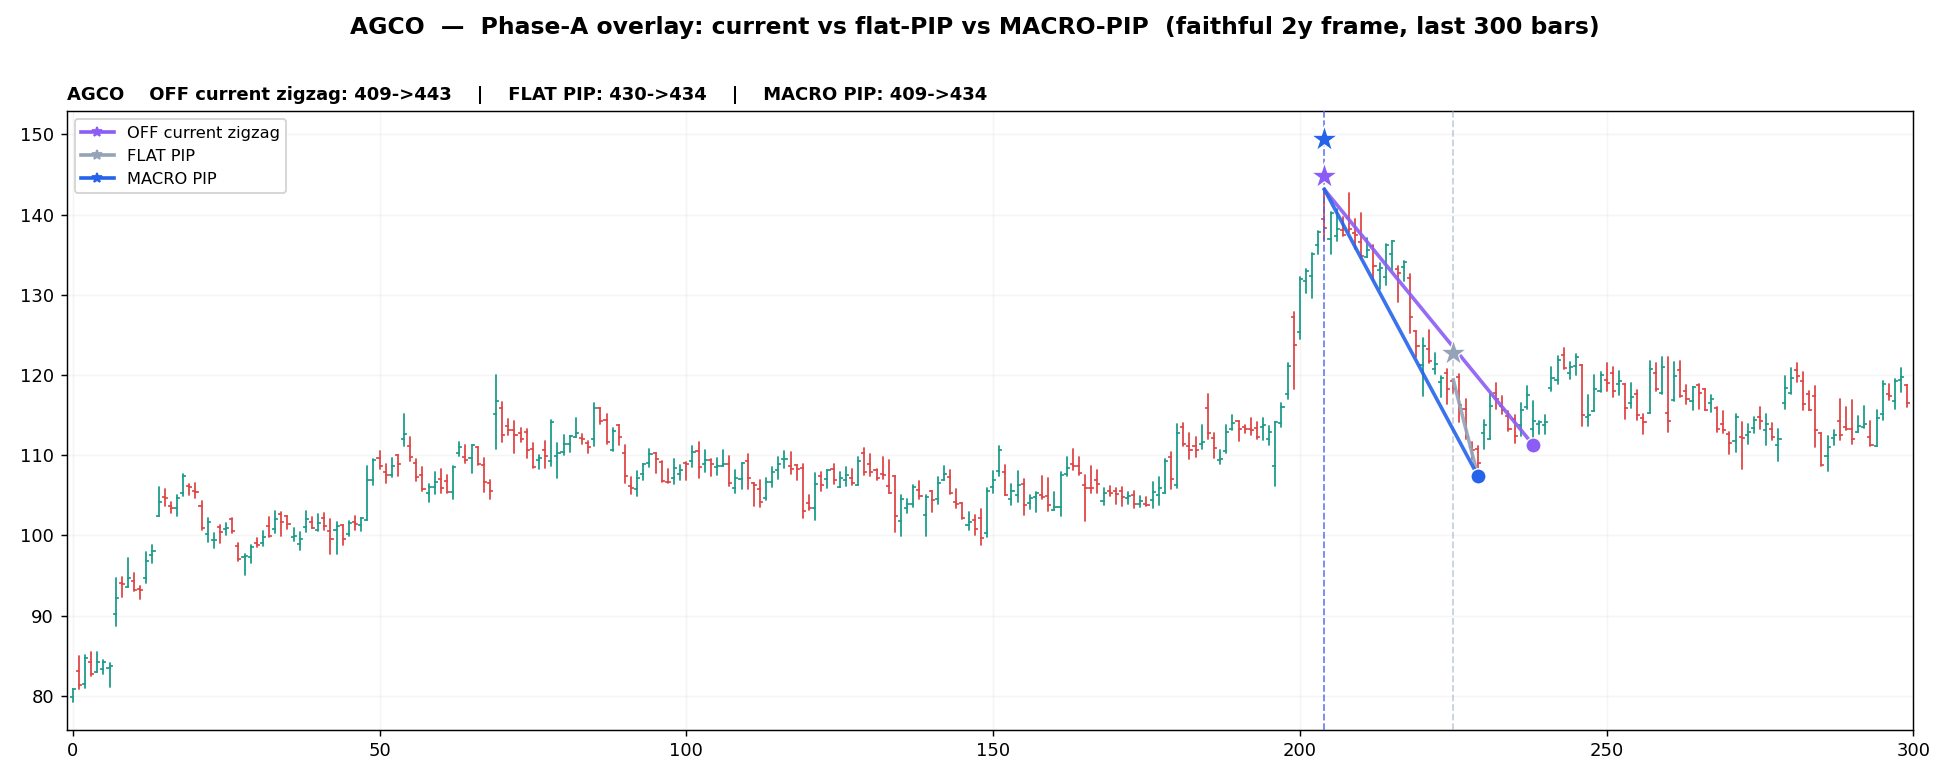
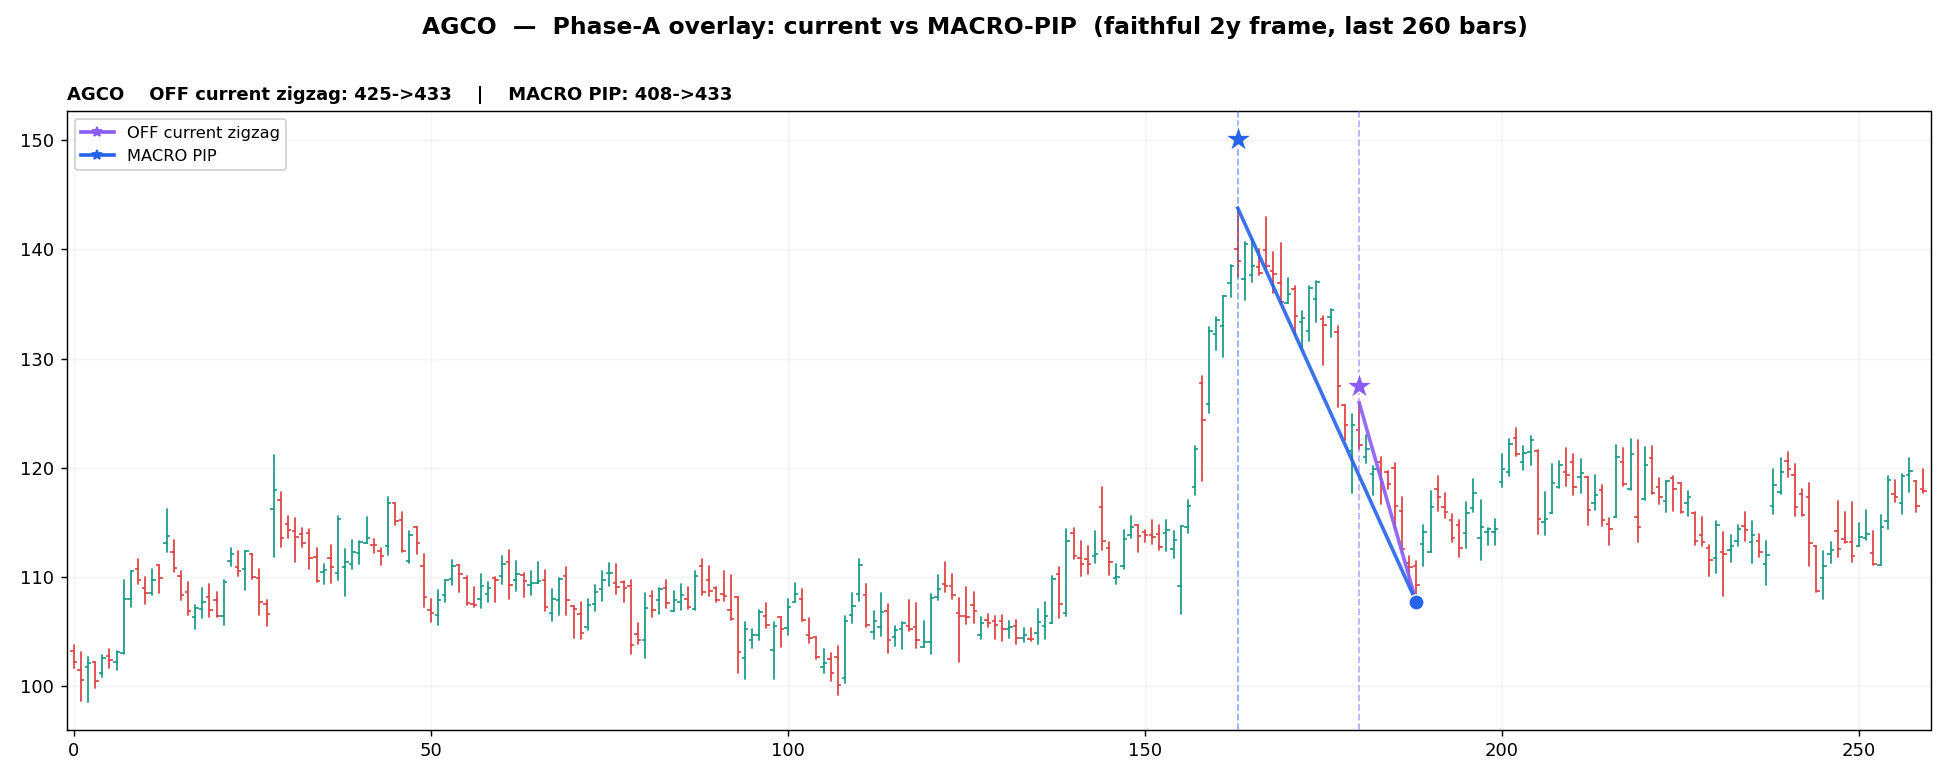
feat(structure): flip PIP_MACRO_PHASE_A_ENABLED live (macro Phase-A read)
Operator-approved flip after the pre-flip adversarial review + overlay eyeball.
The coarse->fine macro Phase-A read now speaks by default, re-anchoring degenerate
right-edge climax->AR stubs to the genuine trend-top -> reaction.

Evidence (tools/phase_a_pip_diff.py, faithful 2y frame, 5491 tickers -> 140 fire):
19/140 overlays re-anchor; 0 stolen climaxes in EITHER mode; 0 score/fire/tier
change (Phase-A OVERLAY only -- R/S / LPS / scoring / tiering untouched). Eyeballed
top movers: OCFC/FTW/PH clear wins (stub -> genuine top), PCG the one debatable
(macro anchors a later lower high).

Safe by construction: both flag states are byte-identical on the canonical shadow
set (the macro read only moves climax_bar / ar_bar). The phase-ordering invariant
holds on BOTH reads after 142bf50 (macro abstains when its AR overruns the box)
and 5882226 (order-N asymmetric bound). Ships-dark guard updated to ships-live;
flag_ledger row moved to Retired with the evidence trail.

Gates (flag ON): pytest 781 passed; shadow_diff --check no canonical drift;
seed_recall 54.5% held. Settings quick-ref regenerated.

diff --git a/config/settings.py b/config/settings.py
@@ -39,11 +39,13 @@ PIVOT_ORDER_THRESHOLD = 40       # Bar count threshold for switching ORDER
 # climax or AR. Deliberately NOT applied to read_market_structure — event
 # labels want the fine skeleton, the Phase-A bridge wants the coarse one.
 # Feeds ONLY the Phase-A overlay via resolve_phase_a, never R/S/score/tier.
-# Operator approved the flip 2026-07-04 on the overlay A/B (24/140 overlays move, 0
-# score/fire/tier), but the flip is HELD: making macro the default breaks the
-# phase-ordering invariant (LUV: macro AR lands AFTER the box start) — investigate
-# whether that's a real overlay defect or an over-strict invariant before flipping.
-PIP_MACRO_PHASE_A_ENABLED = False
+# FLIPPED LIVE 2026-07-04: operator eyeball on the overlay A/B (tools/phase_a_pip_diff.py:
+# 19/140 overlays re-anchor to the genuine trend-top -> reaction, 0 stolen climaxes in
+# EITHER mode, 0 score/fire/tier — Phase-A OVERLAY only). The phase-ordering hold (LUV:
+# macro AR landed AFTER the box start) was a REAL overlay defect, not an over-strict
+# invariant: the box-overrunning macro bridge now abstains (resolve_phase_a bridge_end_max
+# = phase_b_start_bar, 142bf50); the sibling always-on order-N hole was closed in 5882226.
+PIP_MACRO_PHASE_A_ENABLED = True
 PIP_MACRO_K_MAX = 24             # refinement cap: finest skeleton size tried
 # "True Phase-A root swing" rule (operator, 2026-07-02): a candidate trend-end
 # bridge qualifies ONLY if it leads to an actual equilibrium. The read stays

diff --git a/tests/test_pip.py b/tests/test_pip.py
@@ -184,7 +184,7 @@ def test_segment_swings_macro_wire_and_flag_default(monkeypatch):
     import pandas as pd
     from core.structure.segmentation import segment_swings
 
-    assert settings.PIP_MACRO_PHASE_A_ENABLED is False   # ships dark
+    assert settings.PIP_MACRO_PHASE_A_ENABLED is True    # ships LIVE (flipped 2026-07-04)
 
     highs, lows = _markup_range_frame()
     df = pd.DataFrame({"High": highs, "Low": lows})

diff --git a/docs/flag_ledger.md b/docs/flag_ledger.md
@@ -19,7 +19,6 @@ Maintenance rules:
 
 | Flag | Built | Blocking decision | Evidence | Kill-by |
 |---|---|---|---|---|
-| `PIP_MACRO_PHASE_A_ENABLED` | 2026-07-02 (`25b98cb`) | Operator APPROVED the flip 2026-07-04 on the overlay A/B (`tools/phase_a_pip_diff.py`: 24/140 overlays move, 0 score/fire/tier), but **HELD**: making macro the default breaks the phase-ordering invariant (LUV macro AR lands AFTER the box start) + the `test_segment_swings_finds_root_bridge` unit test — resolve whether that's a real overlay defect or an over-strict invariant, then flip | [pip_macro_phase_a.md](pip_macro_phase_a.md); `test_invariants::test_phase_ordering_monotone` | 2026-08-15 |
 | `LPS_REQUIRE_PEAK_DOWN` | 2026-06-24 (`dba8005`) | Was gated on a seed-recall measurement before any flip; the census found NO peak-down threshold that separates winners, and the OHI run-up class it targeted is now killed by the live markup gate (`LPS_RESCUE_MAX_ADVANCE_BOX = 0.21`). **Recommendation: delete unless a new census revives it** | `settings.LPS_REQUIRE_PEAK_DOWN` comment; markup-gate validation 2026-06-26 | 2026-08-01 |
 | `TA_SCORE_V2` | 2026-07-01 (`d4c90bd`) | Build P0–P6.5 reweight-neutral behind the flag, then STOP at the A/B eyeball (weights untouched); flip is an operator A/B decision | [../specs/ta-score-rework.md](../specs/ta-score-rework.md), [../specs/ta-score-hybrid-design.md](../specs/ta-score-hybrid-design.md) | 2026-08-31 |
 | `FUNDAMENTALS_ENABLED` (Lane C) | 2026-06-29 (`b8753a1`) | The scoring/enrichment wire-up wave (fundamentals feeding score/archive) — substrate is built and unit-tested, consumption wave not yet scheduled | `core/fundamentals/` docstrings | 2026-09-30 |
@@ -33,3 +32,4 @@ Maintenance rules:
 | `PIP_PIVOTS_ENABLED` (+ `PIP_PIVOTS_DIST_MIN`) | 2026-06-25 (`c08e61f`) | **DELETED 2026-07-03** — eyeball-rejected as a wash (fixes some inverted climax→AR overlays, creates others: GBTG/PLSE/CGNX, `d43e7fd`); dead branches removed from `segment_swings` / `read_market_structure`, keys removed from the freeze manifest. `pip.py` itself stays (`macro_bridge_zigzag` refines the same substrate) | [pip_macro_phase_a.md](pip_macro_phase_a.md) §history; byte-parity gates green at deletion |
 | `CANDLE_SPREAD_AWARE` | 2026-06-30 (`ed6b82e`) | **FLIPPED LIVE 2026-07-04** — operator A/B eyeball (`tools/candle_ab.py`): 61/128 choppy bases docked (mean −0.39, min −3.0), 0 tier flips, clean bases preserved at grade 1.0; shadow baseline re-captured | `settings.CANDLE_SPREAD_AWARE`; E1 Track B A/B |
 | `PUZZLE_SCORE_ENABLED` | 2026-06-30 (`d2db80c`) | **FLIPPED LIVE 2026-07-04** — operator A/B eyeball (`tools/puzzle_ab.py`): 128/128 fires lifted (mean +4.5, max +8.0), 22 tier flips; shadow baseline re-captured. Forward-return validation still due ~2026-07-15+ (a revisit, not a blocker) | `settings.PUZZLE_SCORE_ENABLED`; [engine_pass/](engine_pass/) E2/E3 |
+| `PIP_MACRO_PHASE_A_ENABLED` | 2026-07-02 (`25b98cb`) | **FLIPPED LIVE 2026-07-04** — operator eyeball on the overlay A/B (`tools/phase_a_pip_diff.py`): 19/140 overlays re-anchor to the genuine trend-top→reaction, 0 stolen climaxes in EITHER mode, 0 score/fire/tier (Phase-A overlay only). The phase-ordering hold was a REAL overlay defect (macro AR painted inside the box): the box-overrunning macro bridge now abstains (`142bf50`, `bridge_end_max=phase_b_start_bar`); the sibling always-on order-N hole was closed (`5882226`); `test_segment_swings_finds_root_bridge` pinned flag-off (`b514f49`) | [pip_macro_phase_a.md](pip_macro_phase_a.md); `test_invariants::test_phase_ordering_monotone` |

diff --git a/docs/strategy_v2.md b/docs/strategy_v2.md
@@ -730,7 +730,7 @@ detector decision, in manifest order, with its live `config/settings.py` value.
 Regenerate with `python -m tools.settings_reference --write`;
 `tests/test_docs_sync.py` fails the suite when this block drifts._
 
[2 lines of base64/hex data omitted]
 
 ```text
 DATA_DIVIDEND_ADJUSTED = False
@@ -744,7 +744,7 @@ EXTENSION_FILTER_MULT = 1.15
 PIVOT_ORDER_SHORT = 1
 PIVOT_ORDER_LONG = 2
 PIVOT_ORDER_THRESHOLD = 40
-PIP_MACRO_PHASE_A_ENABLED = False
+PIP_MACRO_PHASE_A_ENABLED = True
 PIP_MACRO_K_MAX = 24
 PIP_MACRO_MAX_POST_EXCESS = 0.25
 PIP_MACRO_MIN_BASE_BARS = 20
